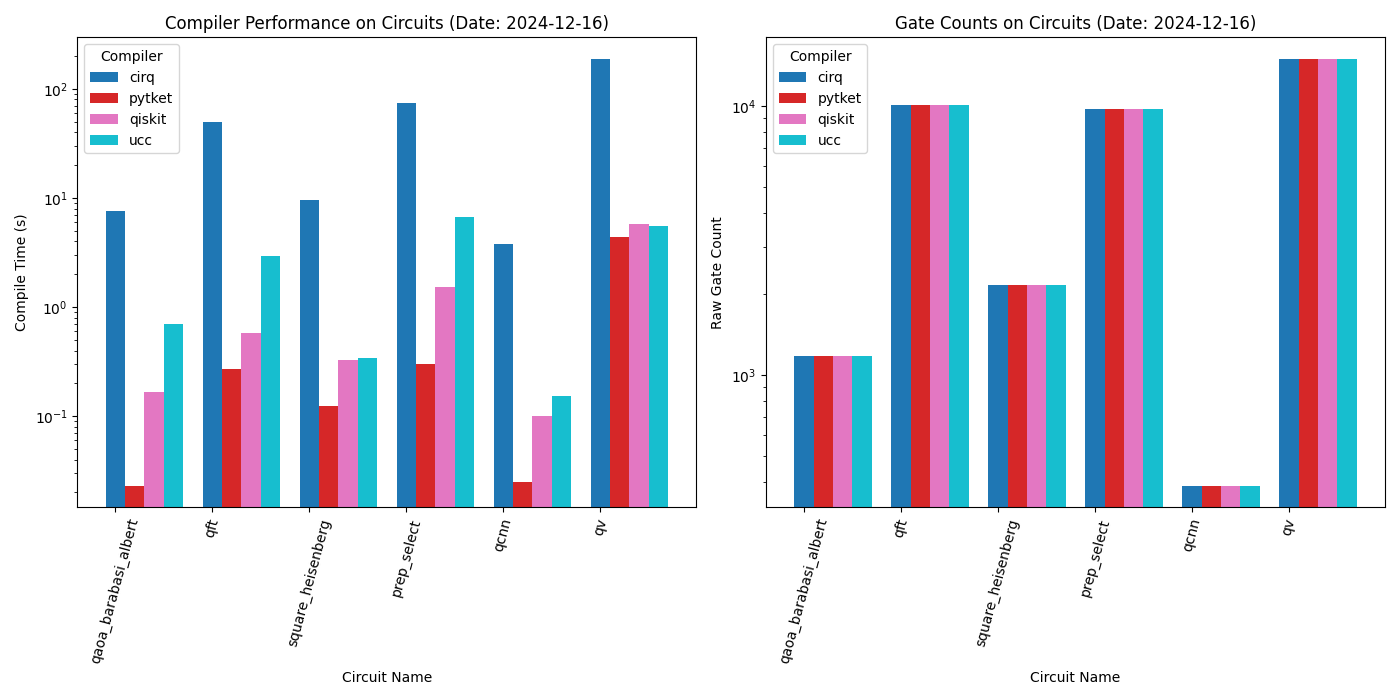
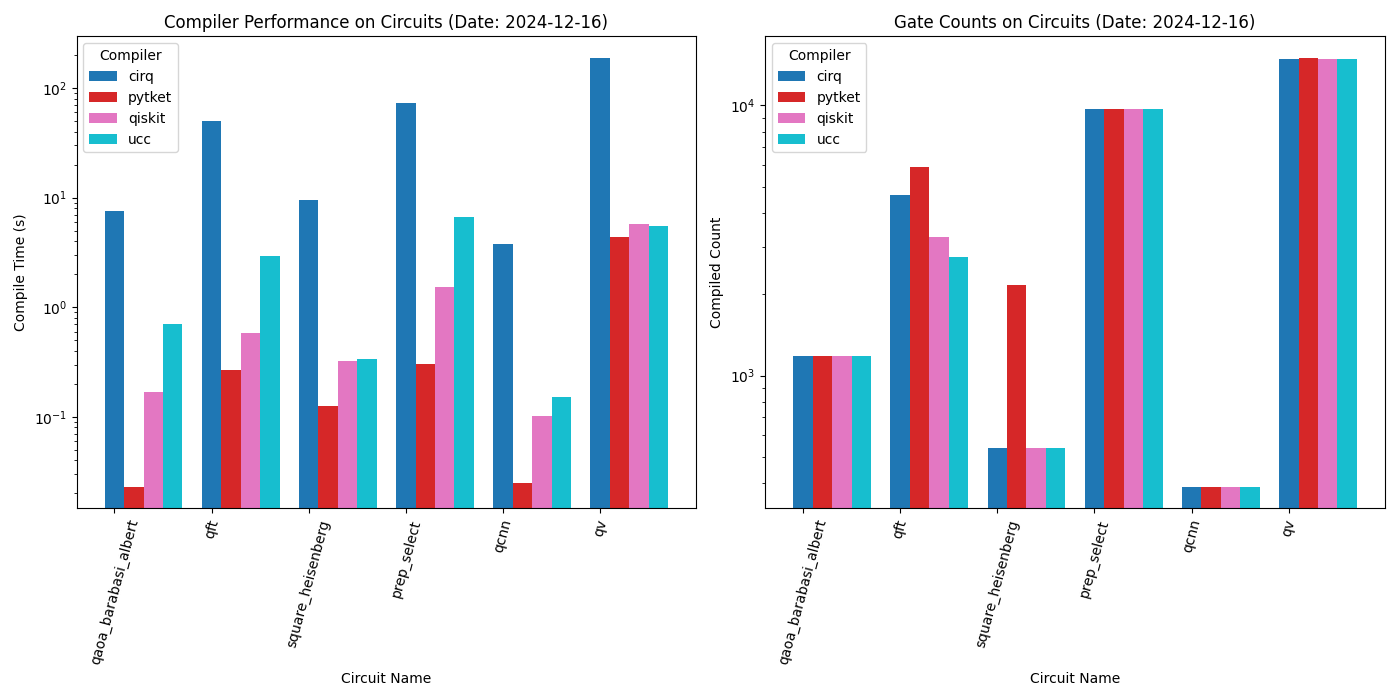
Plot compiled gate counts instead of raw in plot_latest_benchmarks.py

diff --git a/benchmarks/scripts/plot_latest_benchmarks.py b/benchmarks/scripts/plot_latest_benchmarks.py
@@ -32,6 +32,7 @@ df_all = pd.concat(dfs, ignore_index=True)
 
 # Find the most recent date in the 'date' column
 latest_date = df_all['date'].max()
+print("latest date is", latest_date)
 
 # Filter the dataframe to only include rows from the most recent date
 df_latest = df_all[df_all['date'] == latest_date]
@@ -73,7 +74,7 @@ for i, (key, grp) in enumerate(df_latest.groupby("compiler")):
     # Plot gate count
     ax[1].bar(
         [grp_indices + i * bar_width for grp_indices in grp_indices],  # Shift bars for each compiler
-        grp['raw_multiq_gates'],  # Gate count data
+        grp['compiled_multiq_gates'],  # Gate count data
         width=bar_width,
         label=key,
         color=color_map[key]
@@ -89,7 +90,7 @@ ax[0].set_yscale("log")
 
 ax[1].set_title(f"Gate Counts on Circuits (Date: {latest_date})")
 ax[1].set_xlabel("Circuit Name")
-ax[1].set_ylabel("Raw Gate Count")
+ax[1].set_ylabel("Compiled Count")
 ax[1].set_xticks(x_positions)
 ax[1].set_xticklabels(circuit_names, rotation=75)
 ax[1].set_yscale("log")
